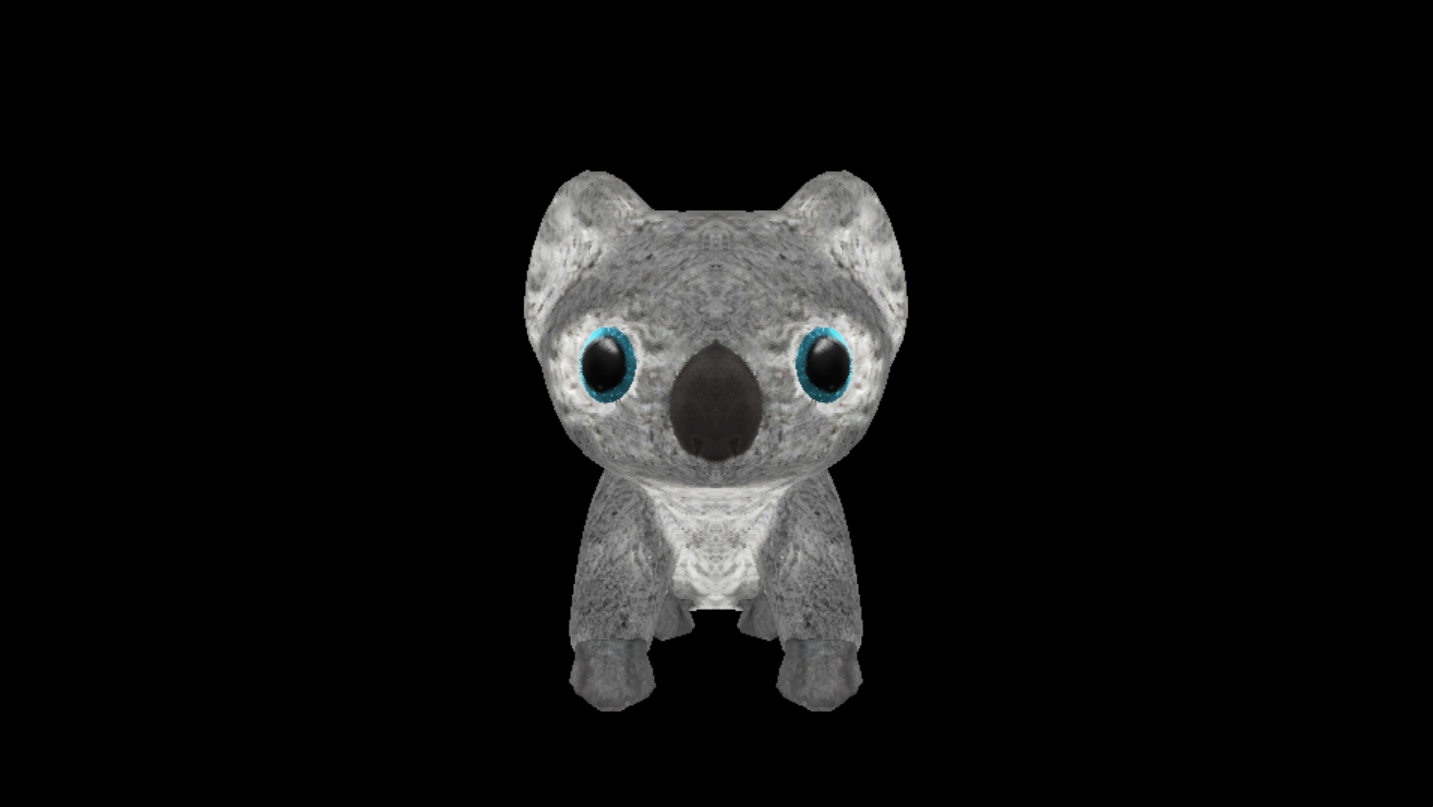
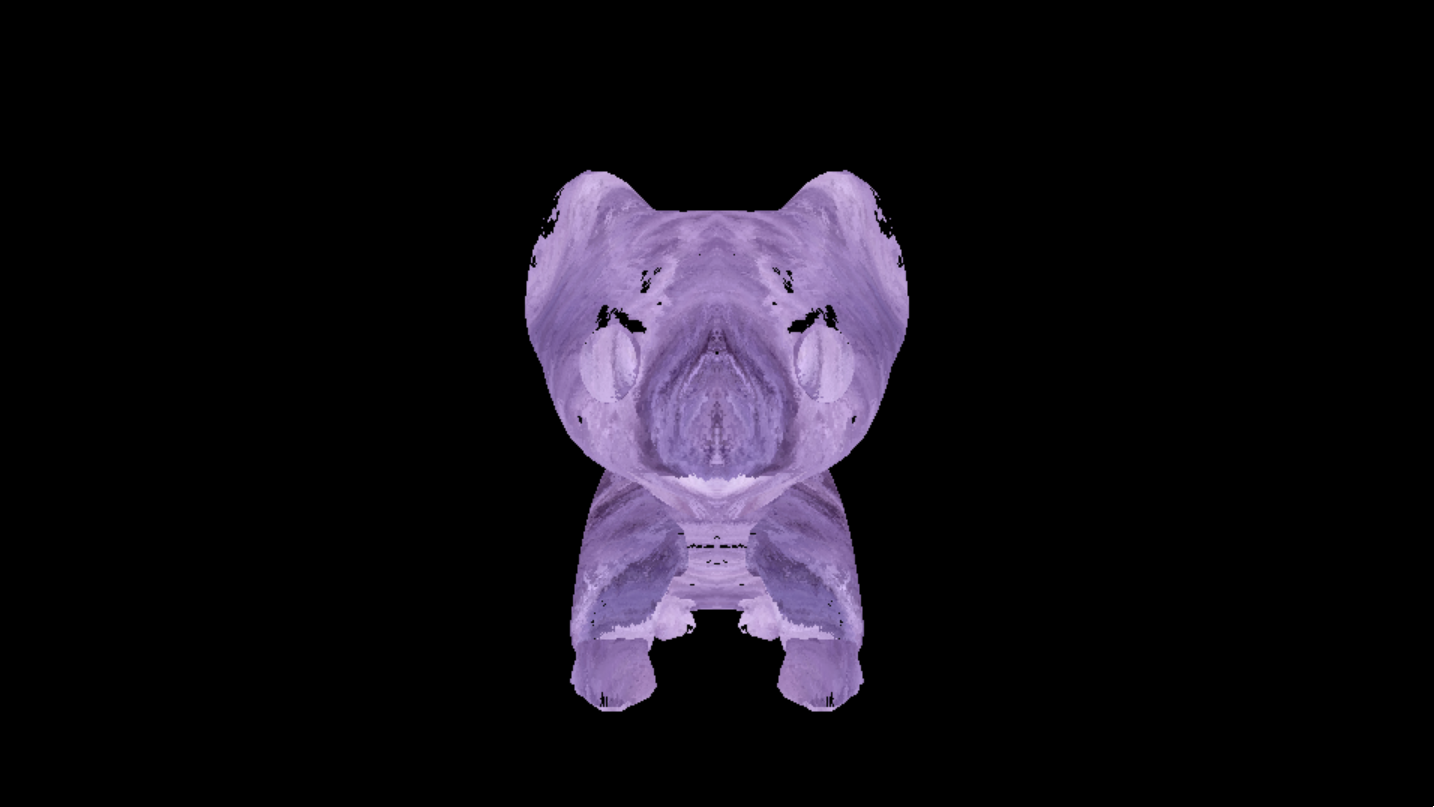
First shaderimplemented

Changed region(s): [[0.3685, 0.1859, 0.6448, 0.8984]]

diff --git a/shaders.py b/shaders.py
@@ -4,7 +4,7 @@
  * Lenguaje: Python
  * Recursos: VSCode, pygame, OpenGL
  * Historial: Finalizado el 26.10.2023
-              Modificado el 27.10.2023
+              Modificado el 04.11.2023
  '''
 
 # Graphics Library Shader Language: GLSL
@@ -41,4 +41,122 @@ fragment_shader = """
     void main() {
         fragColor = texture(tex, UVs);
     }
+"""
+
+gourad_fragment_shader = """
+    #version 450 core
+    
+    layout (binding = 0) uniform sampler2D tex;
+
+    uniform vec3 dirLight;
+
+    uniform float lightIntensity;
+
+    in vec2 UVs;
+    in vec3 normal;
+    out vec4 fragColor;
+    
+    void main() {
+        float intensity = dot(normal, -dirLight) * lightIntensity;
+        fragColor = texture(tex, UVs) * intensity;
+    }
+"""
+
+cell_fragment_shader = """
+    #version 450 core
+
+    layout (binding = 0) uniform sampler2D tex;
+
+    uniform vec3 dirLight;
+    uniform float lightIntensity;
+    uniform float time;
+
+    in vec2 UVs;
+    in vec3 normal;
+    out vec4 fragColor;
+
+    float rand(vec2 co) {
+        return fract(sin(dot(co.xy ,vec2(12.9898,78.233))) * 43758.5453);
+    }
+
+    void main() {
+        float edgeSens = 0.4 + 0.1 * sin(time + rand(UVs));
+        float intensity = 0.85 + 0.15 * sin(time + rand(UVs));
+
+        float gouraudIntensity = dot(normal, -dirLight) * lightIntensity;
+        vec4 color = texture(tex, UVs) * gouraudIntensity;
+        
+        float gintensity = 0.2989 * color.r + 0.5870 * color.g + 0.1140 * color.b;
+        
+        if (gintensity > edgeSens) {
+            fragColor = color;
+        } else if (gintensity > intensity) {
+            fragColor = vec4(0, 0, 0, 1);
+        } else {
+            fragColor = vec4(0, 0, 0, 1);
+        }
+    }
+
+"""
+
+multicolor_fragment_shader = """
+    #version 450 core
+
+    layout (binding = 0) uniform sampler2D tex;
+
+    uniform vec3 dirLight;
+    uniform float lightIntensity;
+    uniform float time;
+
+    in vec2 UVs;
+    in vec3 normal;
+    out vec4 fragColor;
+
+    void main() {
+        float intensity = dot(normal, -dirLight) * lightIntensity;
+        vec3 gradientColor = vec3(UVs.y + sin(time * normal.x), UVs.x + cos(time * normal.y), 1.0 - UVs.x + tan(time * normal.z));
+        fragColor = vec4(gradientColor, 1.0) * intensity;
+    }
+"""
+
+noise_fragment_shader = """
+    #version 450 core
+
+    layout (binding = 0) uniform sampler2D tex;
+    layout (binding = 1) uniform sampler2D noiseTex;
+
+    uniform vec3 dirLight;
+    uniform float lightIntensity;
+    uniform float time;
+
+    in vec2 UVs;
+    in vec3 normal;
+    out vec4 fragColor;
+
+    void main() {
+        float edgeSens = 0.4;
+        float intensity = 0.85;
+
+        float gouraudIntensity = dot(normal, -dirLight) * lightIntensity;
+
+        vec2 noiseCoords = UVs + vec2(time * -0.1);
+        float noise = texture(noiseTex, noiseCoords).r;
+        vec2 distortedCoords = UVs + vec2(noise * 0.1 + sin(time) * 0.05);
+        vec4 color = texture(tex, UVs) * gouraudIntensity;
+
+        float gintensity = 0.2989 * color.r + 0.5870 * color.g + 0.1140 * color.b;
+        
+        if (noise > 0.8) {
+            if (gintensity > edgeSens) {
+                fragColor = color;
+            } else if (gintensity > intensity) {
+                fragColor = vec4(0, 0, 0, 1);
+            } else {
+                fragColor = vec4(0, 0, 0, 1);
+            }
+        } else {
+            fragColor = texture(noiseTex, distortedCoords);
+        }
+    }
+
 """

diff --git a/model.py b/model.py
@@ -4,7 +4,7 @@
  * Lenguaje: Python
  * Recursos: VSCode, pygame, OpenGL
  * Historial: Finalizado el 26.10.2023
-              Modificado el 01.11.2023
+              Modificado el 04.11.2023
  '''
 
 import glm
@@ -25,10 +25,19 @@ class Model(object):
         self.textureData = None
         self.textureBuffer = None
 
+        self.noiseTextureSurface = None
+        self.noiseTextureData = None
+        self.noiseTextureBuffer = None
+
     def loadTexture(self, path):
         self.textureSurface = pygame.image.load(path)
         self.textureData = pygame.image.tostring(self.textureSurface, "RGB", True)
         self.textureBuffer = glGenTextures(1)
+
+    def loadNoiseTexture(self, path):
+        self.noiseTextureSurface = pygame.image.load(path)
+        self.noiseTextureData = pygame.image.tostring(self.noiseTextureSurface, "RGB", True)
+        self.noiseTextureBuffer = glGenTextures(1)
 
     def getModelMatrix(self):
         identity = glm.mat4(1.0)
@@ -85,6 +94,22 @@ class Model(object):
         )
         glGenerateTextureMipmap(self.textureBuffer)
 
+        #NoiseTexture
+        glActiveTexture(GL_TEXTURE1)
+        glBindTexture(GL_TEXTURE_2D, self.noiseTextureBuffer)
+        glTexImage2D(
+            GL_TEXTURE_2D,  #Texture Type
+            0,  #Position
+            GL_RGB,  #Format
+            self.noiseTextureSurface.get_width(),  #Width
+            self.noiseTextureSurface.get_height(),  #Height
+            0,  #Border
+            GL_RGB,  #Format
+            GL_UNSIGNED_BYTE,  #Type
+            self.noiseTextureData  #Data
+        )
+        glGenerateTextureMipmap(self.noiseTextureBuffer)
+
         #Normals
         glVertexAttribPointer(2, 
                               3, 
@@ -92,6 +117,8 @@ class Model(object):
                               GL_FALSE, 
                               4 * 8, 
                               ctypes.c_void_p(4 * 5))
+        
+        glEnableVertexAttribArray(2)
 
         #Draw
         glDrawArrays(GL_TRIANGLES, 0, len(self.vertexBuffer) // 8)

diff --git a/main.py b/main.py
@@ -4,7 +4,7 @@
  * Lenguaje: Python
  * Recursos: VSCode, pygame, OpenGL
  * Historial: Finalizado el 26.10.2023
-              Modificado el 01.11.2023
+              Modificado el 04.11.2023
  '''
 
 import pygame
@@ -15,7 +15,6 @@ from renderer import Renderer
 from model import Model
 from shaders import *
 from obj import Obj
-
 
 width = 960
 height = 540
@@ -30,7 +29,6 @@ renderer.setShader(vertex_shader, fragment_shader)
 #Model loading
 obj = Obj("models/koala.obj")
 objData = []
-
 for face in obj.faces:
     if len(face) == 3:
         for vertexInfo in face:
@@ -61,10 +59,13 @@ for face in obj.faces:
 
 model = Model(objData)
 model.loadTexture("textures/koala.bmp")
+model.loadNoiseTexture("textures/purple.jpg")
 model.position.z = -6
 model.position.y = 0
 model.scale = glm.vec3(0.01, 0.01, 0.01)
 renderer.scene.append(model)
+renderer.lightIntensity = 5.0
+renderer.dirLight = glm.vec3(0.0, 0.0, -1.0)
 
 isRunning = True
 while isRunning:
@@ -101,6 +102,21 @@ while isRunning:
         elif event.type == pygame.KEYDOWN:
             if event.key == pygame.K_ESCAPE:
                 isRunning = False
+            if event.key == pygame.K_1:
+                print("Original")
+                renderer.setShader(vertex_shader, fragment_shader)
+            if event.key == pygame.K_2:
+                print("Gourad")
+                renderer.setShader(vertex_shader, gourad_fragment_shader)
+            if event.key == pygame.K_3:
+                print("Cell")
+                renderer.setShader(vertex_shader, cell_fragment_shader)
+            if event.key == pygame.K_4:
+                print("Multicolor")
+                renderer.setShader(vertex_shader, multicolor_fragment_shader)
+            if event.key == pygame.K_5:
+                print("Noise")
+                renderer.setShader(vertex_shader, noise_fragment_shader)
 
     renderer.render()
     pygame.display.flip()

diff --git a/renderer.py b/renderer.py
@@ -4,7 +4,7 @@
  * Lenguaje: Python
  * Recursos: VSCode, pygame, OpenGL
  * Historial: Finalizado el 26.10.2023
-              Modificado el 01.11.2023
+              Modificado el 04.11.2023
  '''
 
 import glm
@@ -29,6 +29,9 @@ class Renderer(object):
             1000.0  #Far Plane
         )
         self.elapsedTime = 0.0
+
+        self.dirLight = glm.vec3(1, 0, 0)
+        self.lightIntensity = 1.0
 
         glEnable(GL_DEPTH_TEST)
         glViewport(0, 0, self.width, self.height)
@@ -74,6 +77,15 @@ class Renderer(object):
             glUniform1f(
                 glGetUniformLocation(self.activeShader, "time"),
                 self.elapsedTime
+            )
+            glUniform3fv(
+                glGetUniformLocation(self.activeShader, "dirLight"),
+                1,
+                glm.value_ptr(self.dirLight)
+            )
+            glUniform1f(
+                glGetUniformLocation(self.activeShader, "lightIntensity"),
+                self.lightIntensity
             )
 
         for obj in self.scene:
